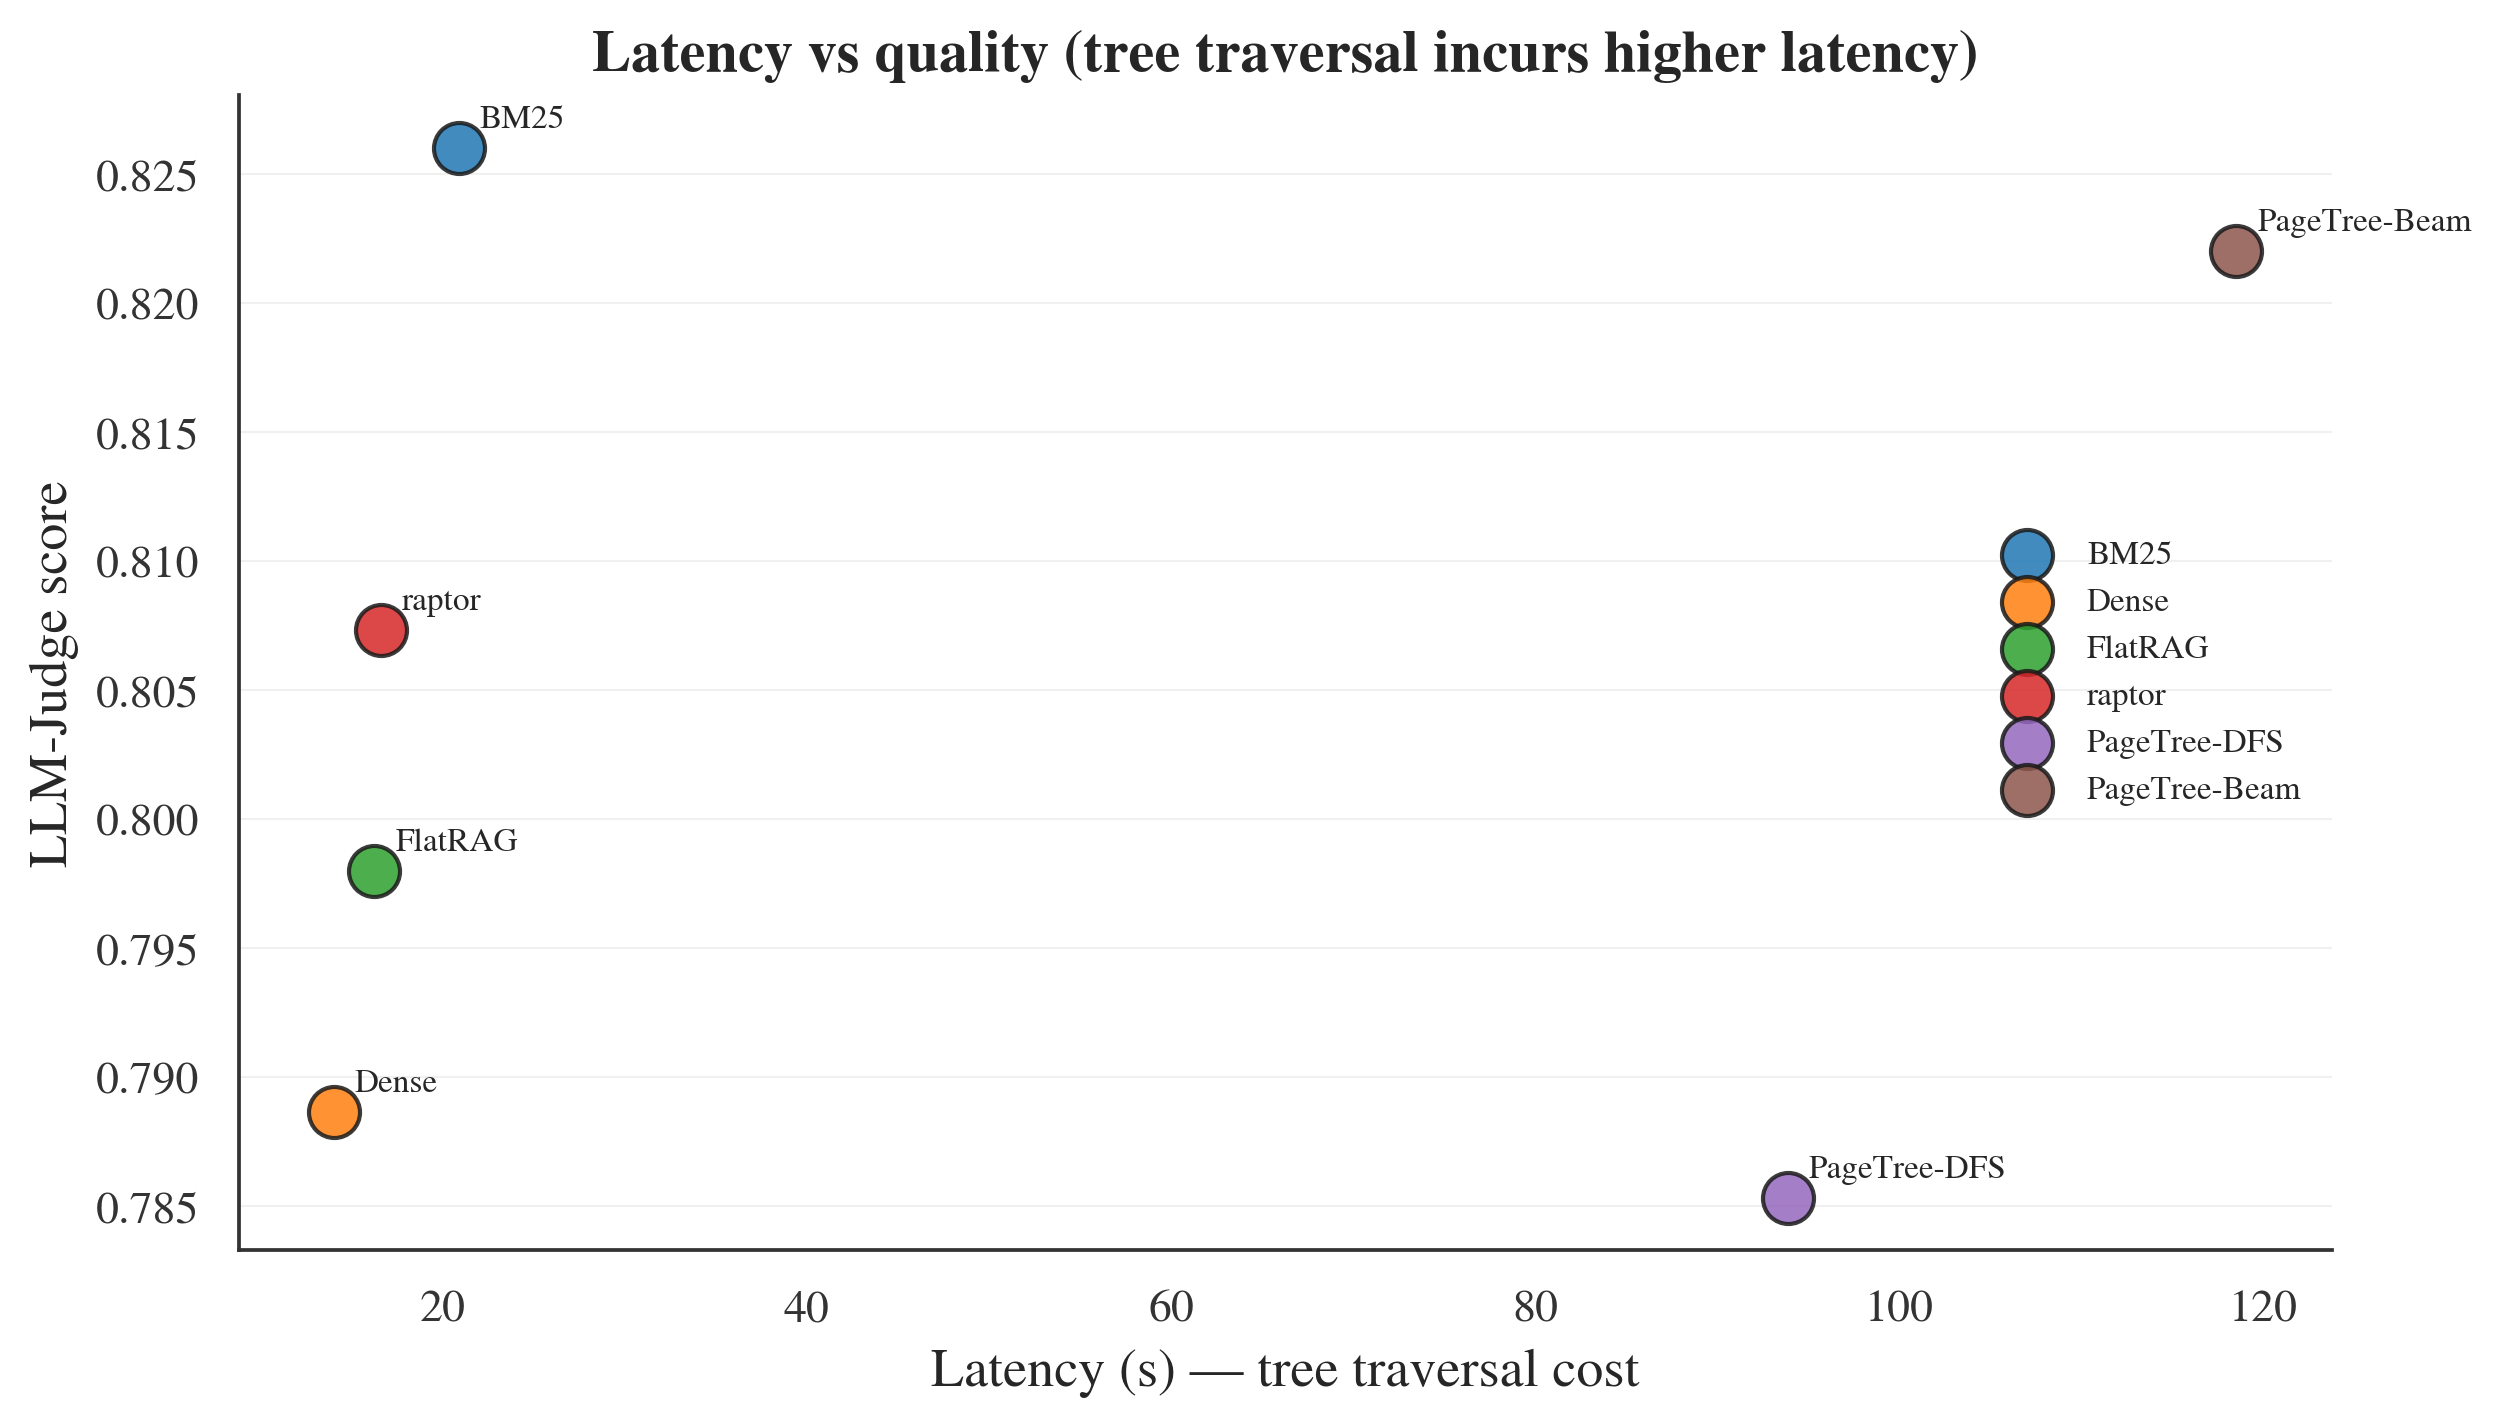
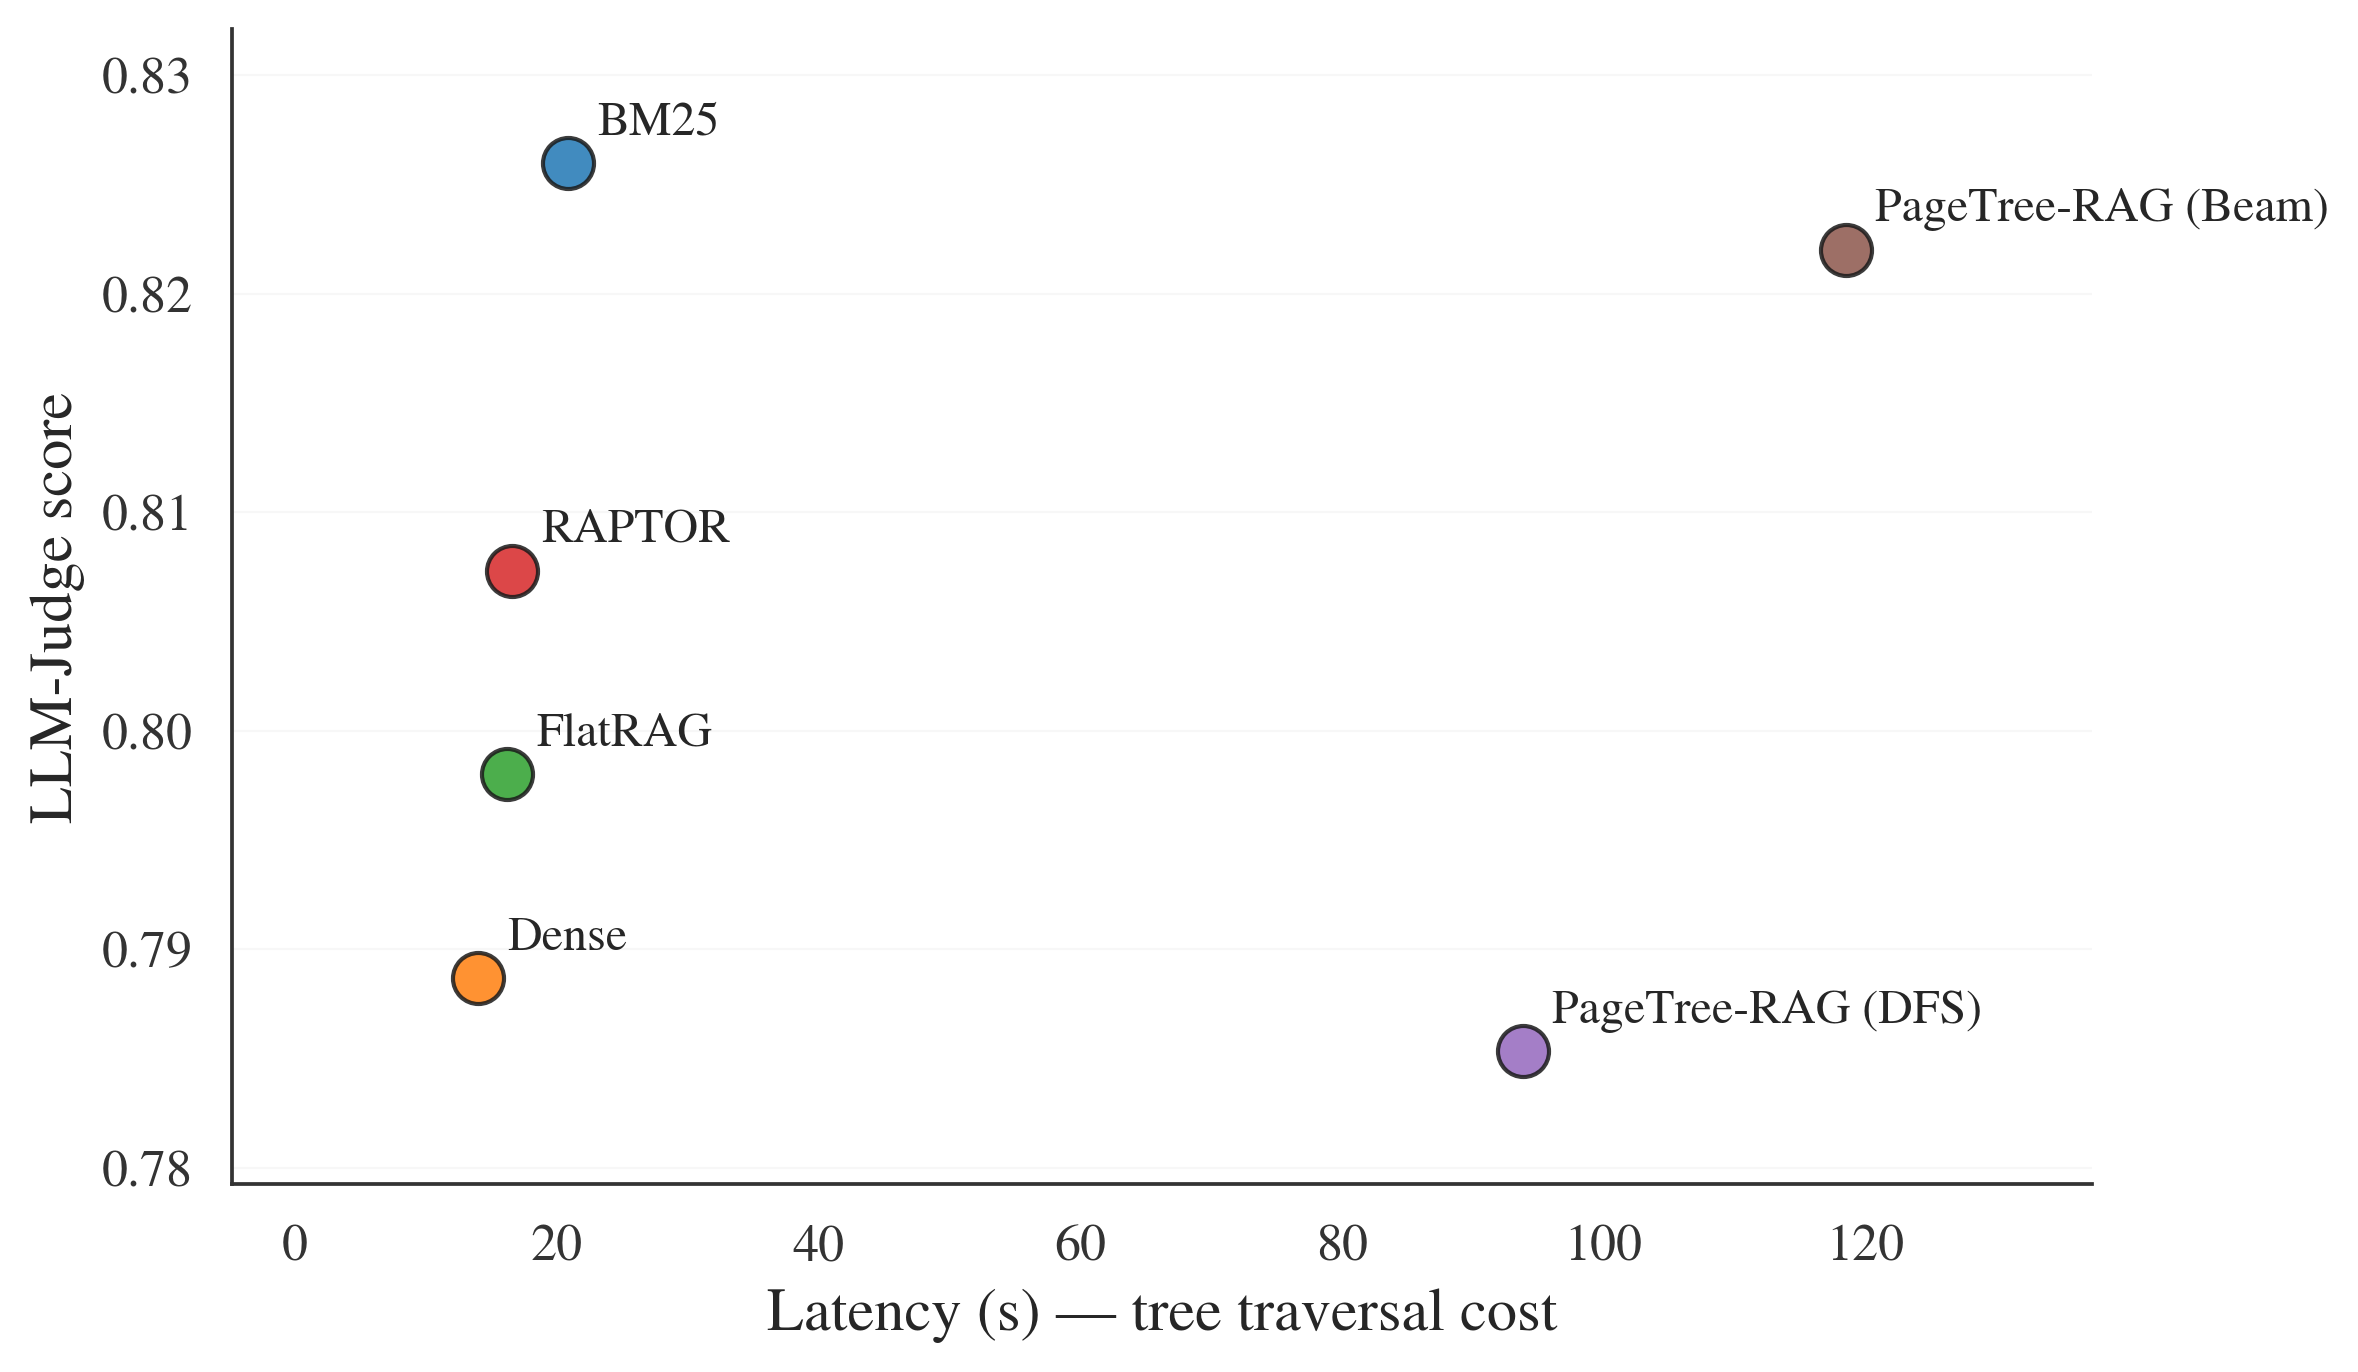
Add script to regenerate Figure 6 (component ablation) with publication styling
This script, plot_table5_ablation.py, creates a horizontal bar chart to visualize the ROUGE-L scores for different configurations as reported in Table 5. It utilizes a unified styling consistent with other figures in the paper and saves the output in both PNG and PDF formats.

diff --git a/scripts/plot_table5_ablation.py b/scripts/plot_table5_ablation.py
@@ -1,0 +1,86 @@
+#!/usr/bin/env python3
+"""Regenerate Figure 6 (component ablation, Table 5's four configurations) with
+the same publication styling used elsewhere in the paper's figures.
+
+The chart previously embedded as Figure 6 in the manuscript was generated by an
+ad hoc, unstyled script whose source was not kept in the repo (plain matplotlib
+defaults: sans-serif font, no gridlines, no edge strokes). This script rebuilds
+the identical data (data/benchmark_reports/ablation_results.json, the same
+numbers already reported in Table 5) using the UNIFIED_STYLE_INJECTED rcParams
+block shared by scripts/plot_results.py and scripts/plot_ci_forest.py, and in
+Table 5's row order (Base -> +Beam -> +Beam+Compression -> Full) rather than
+score-sorted, so the figure reads left-to-right the same way the table does.
+
+Writes data/benchmark_reports/figures/figure_6_table5_ablation.{png,pdf}.
+"""
+import json
+from pathlib import Path
+
+import matplotlib
+matplotlib.use("Agg")
+import matplotlib.pyplot as plt
+
+# UNIFIED_STYLE_INJECTED (matches scripts/plot_results.py, plot_ci_forest.py)
+plt.rcParams.update({
+    "axes.grid": True, "axes.grid.axis": "x", "grid.alpha": 0.28,
+    "grid.linestyle": "-", "grid.linewidth": 0.5, "axes.axisbelow": True,
+    "axes.spines.top": False, "axes.spines.right": False,
+    "axes.edgecolor": "#333333", "axes.linewidth": 0.9,
+    "axes.titlesize": 14, "axes.titleweight": "bold",
+    "axes.labelsize": 13, "xtick.labelsize": 11, "ytick.labelsize": 11.5,
+    "xtick.color": "#333333", "ytick.color": "#333333",
+    "font.size": 12, "font.family": "serif",
+    "font.serif": ["Nimbus Roman", "Times New Roman", "DejaVu Serif"],
+    "mathtext.fontset": "dejavuserif",
+    "legend.fontsize": 10.5, "legend.frameon": False,
+    "savefig.dpi": 300, "figure.dpi": 300,
+})
+
+ROOT = Path(__file__).resolve().parents[1]
+DATA = ROOT / "data" / "benchmark_reports" / "ablation_results.json"
+FIGDIR = ROOT / "data" / "benchmark_reports" / "figures"
+
+# Table-5 order and display labels (Configuration column, shortened for axis ticks)
+ORDER = [
+    ("cfg_base",          "Base\n(DFS, no compress, no ref)"),
+    ("cfg_beam",          "+ Beam\n(no compress, no ref)"),
+    ("cfg_beam_compress", "+ Beam + Compression"),
+    ("cfg_full",          "Full\n(Beam + Compress + Ref)"),
+]
+
+CB_BLUE = "#0072B2"
+CB_GREEN = "#009E73"
+
+
+def main():
+    rows = {r["id"]: r for r in json.loads(DATA.read_text())["configs"]}
+
+    labels = [lbl for _id, lbl in ORDER]
+    rouge = [rows[_id]["rouge_l"] for _id, _ in ORDER]
+    delta = [rows[_id]["delta_rouge_l_vs_full"] for _id, _ in ORDER]
+
+    y = list(range(len(ORDER)))[::-1]  # Base at top, Full at bottom (reads like the table)
+    fig, ax = plt.subplots(figsize=(8, 4.2))
+    colors = [CB_GREEN if _id == "cfg_full" else CB_BLUE for _id, _ in ORDER]
+    bars = ax.barh(y, rouge, height=0.6, color=colors, edgecolor="black", linewidth=0.7)
+
+    for yi, r, d in zip(y, rouge, delta):
+        tag = "Full system" if abs(d) < 1e-9 else f"Δ = {d:+.3f}"
+        ax.text(r + 0.008, yi, tag, va="center", fontsize=10)
+
+    ax.set_yticks(y)
+    ax.set_yticklabels(labels)
+    ax.set_xlabel("ROUGE-L (n = 70, General Benchmark)")
+    ax.set_title("Component ablation: ROUGE-L by configuration\n(Δ = difference vs. Full System)")
+    ax.set_xlim(0, max(rouge) + 0.09)
+    fig.tight_layout()
+
+    FIGDIR.mkdir(parents=True, exist_ok=True)
+    for ext in ("png", "pdf"):
+        fig.savefig(FIGDIR / f"figure_6_table5_ablation.{ext}", dpi=300, bbox_inches="tight")
+    plt.close(fig)
+    print(f"  ✓ wrote {FIGDIR / 'figure_6_table5_ablation.png'}")
+
+
+if __name__ == "__main__":
+    main()

diff --git a/scripts/plot_results.py b/scripts/plot_results.py
@@ -444,17 +444,17 @@ except Exception:  # seaborn optional
 # UNIFIED_STYLE_INJECTED (publication-polish pass: serif face, subtle gridlines,
 # axes pushed behind data, thinner default marker/line weights matching journal figures)
 plt.rcParams.update({
-    "axes.grid": True, "axes.grid.axis": "y", "grid.alpha": 0.28,
+    "axes.grid": True, "axes.grid.axis": "y", "grid.alpha": 0.15,
     "grid.linestyle": "-", "grid.linewidth": 0.5, "axes.axisbelow": True,
     "axes.spines.top": False, "axes.spines.right": False,
     "axes.edgecolor": "#333333", "axes.linewidth": 0.9,
-    "axes.titlesize": 14, "axes.titleweight": "bold",
-    "axes.labelsize": 13, "xtick.labelsize": 11, "ytick.labelsize": 11,
+    "axes.titlesize": 15, "axes.titleweight": "bold",
+    "axes.labelsize": 14.5, "xtick.labelsize": 12.5, "ytick.labelsize": 12.5,
     "xtick.color": "#333333", "ytick.color": "#333333",
-    "font.size": 12, "font.family": "serif",
+    "font.size": 13, "font.family": "serif",
     "font.serif": ["Nimbus Roman", "Times New Roman", "DejaVu Serif"],
     "mathtext.fontset": "dejavuserif",
-    "legend.fontsize": 10.5, "legend.frameon": False,
+    "legend.fontsize": 12, "legend.frameon": False,
     "savefig.dpi": 300, "figure.dpi": 300,
 })
 
@@ -546,10 +546,14 @@ def figure_efficiency(report) -> None:
     FlatRAG has context_tokens==0 (no retrieval context) — shown with annotation but
     excluded from the Pareto frontier to avoid distortion.
     Separate panel figure_3b_latency shows the latency cost honestly.
+
+    Points are identified with inline text labels only (no duplicate legend
+    entry per point) to avoid redundant labeling; a legend is shown only for
+    non-obvious annotations (Pareto frontier line, FlatRAG's zero-context caveat).
     """
     systems = report["systems"]
     summ = report["summary"]
-    fig, ax = plt.subplots(figsize=(9, 5))
+    fig, ax = plt.subplots(figsize=(8, 5))
     cmap = plt.get_cmap("tab10")
     pts_for_pareto = []
     for i, s in enumerate(systems):
@@ -558,14 +562,14 @@ def figure_efficiency(report) -> None:
         judge = a.get("llm_judge")
         if judge is None:
             continue
-        label = LABELS.get(s, s)
+        label = _ACM_LABELS.get(s, LABELS.get(s, s))
         is_flatrag = (ctx == 0)
         marker = "*" if s.startswith("treerag") else ("s" if is_flatrag else "o")
         ax.scatter(ctx, judge, s=180, marker=marker,
                    color=cmap(i % 10), alpha=0.85, edgecolors="k",
-                   label=label + (" (no retrieval ctx)" if is_flatrag else ""))
-        ax.annotate(label, (ctx, judge), xytext=(5, 5),
-                    textcoords="offset points", fontsize=8)
+                   label="FlatRAG (no retrieval ctx)" if is_flatrag else None)
+        ax.annotate(label, (ctx, judge), xytext=(7, 7),
+                    textcoords="offset points", fontsize=11.5)
         if not is_flatrag:
             pts_for_pareto.append((ctx, judge, label))
     frontier, pxs, pys = _pareto_frontier(pts_for_pareto)
@@ -574,29 +578,29 @@ def figure_efficiency(report) -> None:
                 alpha=0.7, label="Pareto frontier")
     ax.set_xlabel("Context tokens (fewer = more efficient)")
     ax.set_ylabel("LLM-Judge score (higher = better)")
-    ax.set_title(
-        "Efficiency: context tokens vs LLM-Judge\n"
-        "fewer tokens, higher quality (upper-left dominates)"
-    )
-    ax.legend(fontsize=8, loc="best")
+    # No in-figure title: the caption carries the message (journal style).
+    ax.margins(x=0.18, y=0.15)
+    handles, labels_ = ax.get_legend_handles_labels()
+    if handles:
+        ax.legend(fontsize=11.5, loc="lower right", handletextpad=0.4)
     _save(fig, "figure_3_efficiency")
 
     # Panel b: latency vs LLM-Judge (honest cost view)
-    fig2, ax2 = plt.subplots(figsize=(9, 5))
+    fig2, ax2 = plt.subplots(figsize=(8, 5))
     for i, s in enumerate(systems):
         a = summ[s]
         judge = a.get("llm_judge")
         if judge is None:
             continue
-        label = LABELS.get(s, s)
+        label = _ACM_LABELS.get(s, LABELS.get(s, s))
         ax2.scatter(a.get("latency", 0), judge, s=150,
-                    color=cmap(i % 10), alpha=0.85, edgecolors="k", label=label)
+                    color=cmap(i % 10), alpha=0.85, edgecolors="k")
         ax2.annotate(label, (a.get("latency", 0), judge),
-                     xytext=(5, 5), textcoords="offset points", fontsize=8)
+                     xytext=(7, 7), textcoords="offset points", fontsize=11.5)
     ax2.set_xlabel("Latency (s) — tree traversal cost")
     ax2.set_ylabel("LLM-Judge score")
-    ax2.set_title("Latency vs quality (tree traversal incurs higher latency)")
-    ax2.legend(fontsize=8, loc="best")
+    # No in-figure title: the caption carries the message (journal style).
+    ax2.margins(x=0.18, y=0.15)
     _save(fig2, "figure_3b_latency")
 
 
@@ -744,8 +748,9 @@ def figure_main_bars(report, out_dir=None):
     ax.set_xticks(list(x))
     ax.set_xticklabels(labels, rotation=20, ha="right")
     ax.set_ylabel("Score")
-    ax.set_title("Main results: ROUGE-L and BERTScore by system")
-    ax.legend()
+    # No in-figure title: the caption carries the message (journal style).
+    ax.legend(loc="lower left", bbox_to_anchor=(0.0, 1.01), ncol=2,
+              handletextpad=0.4, columnspacing=1.2, borderaxespad=0.0)
     out_dir.mkdir(parents=True, exist_ok=True)
     for ext in ("pdf", "png"):
         fig.savefig(out_dir / "figure_2_main_results.{0}".format(ext), dpi=300, bbox_inches="tight")